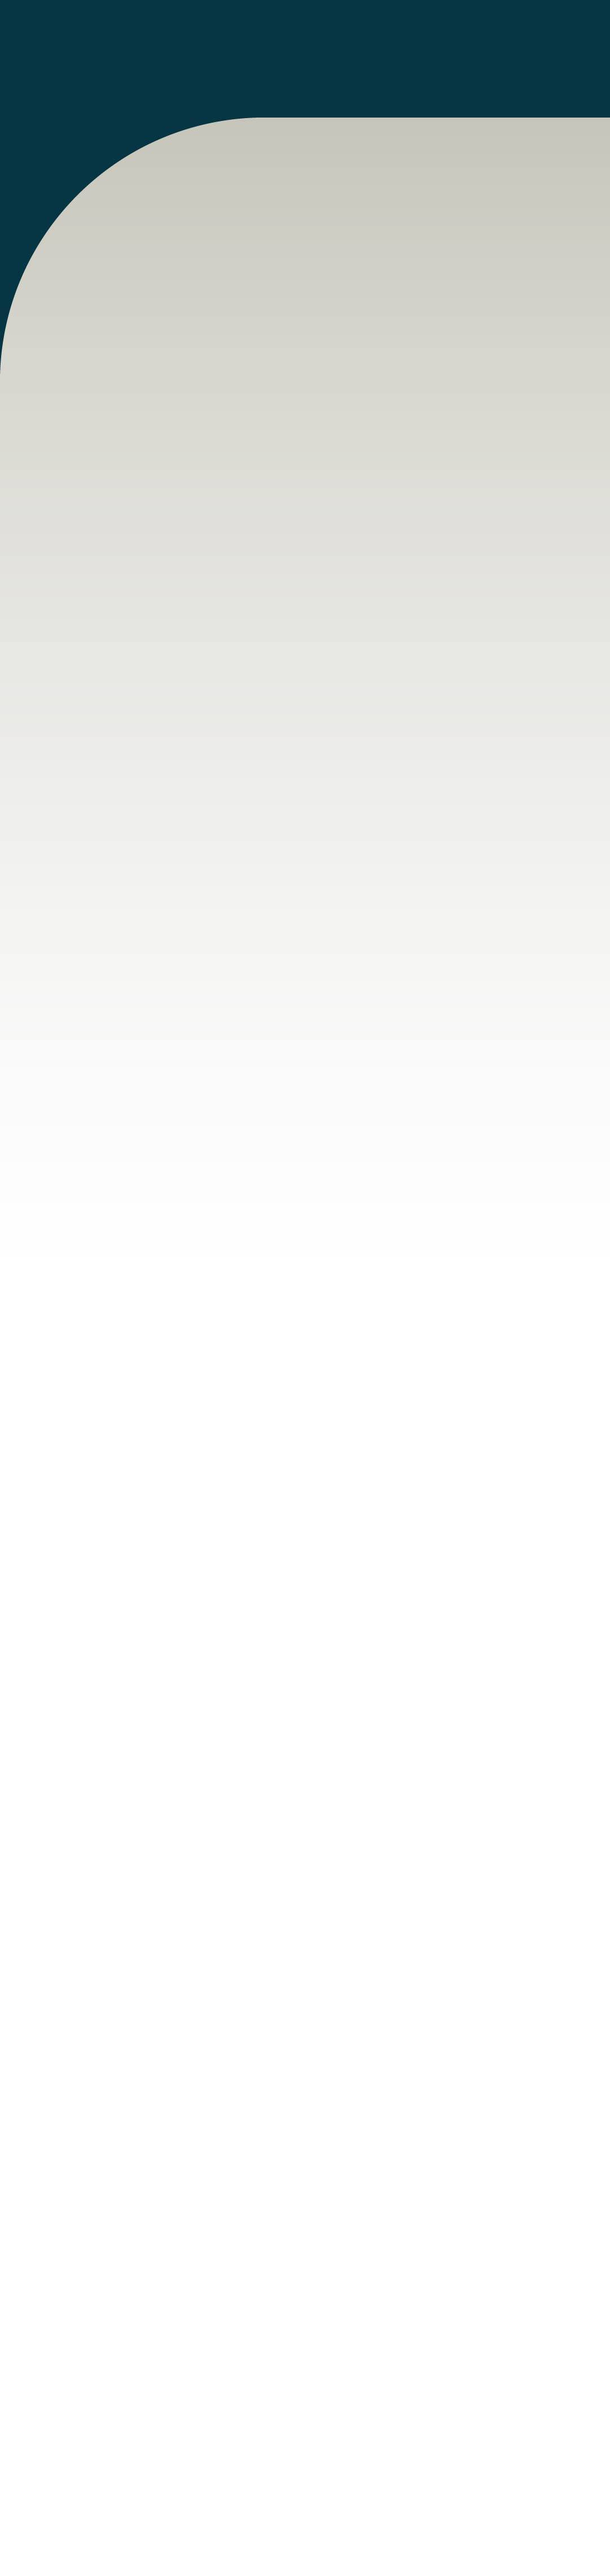
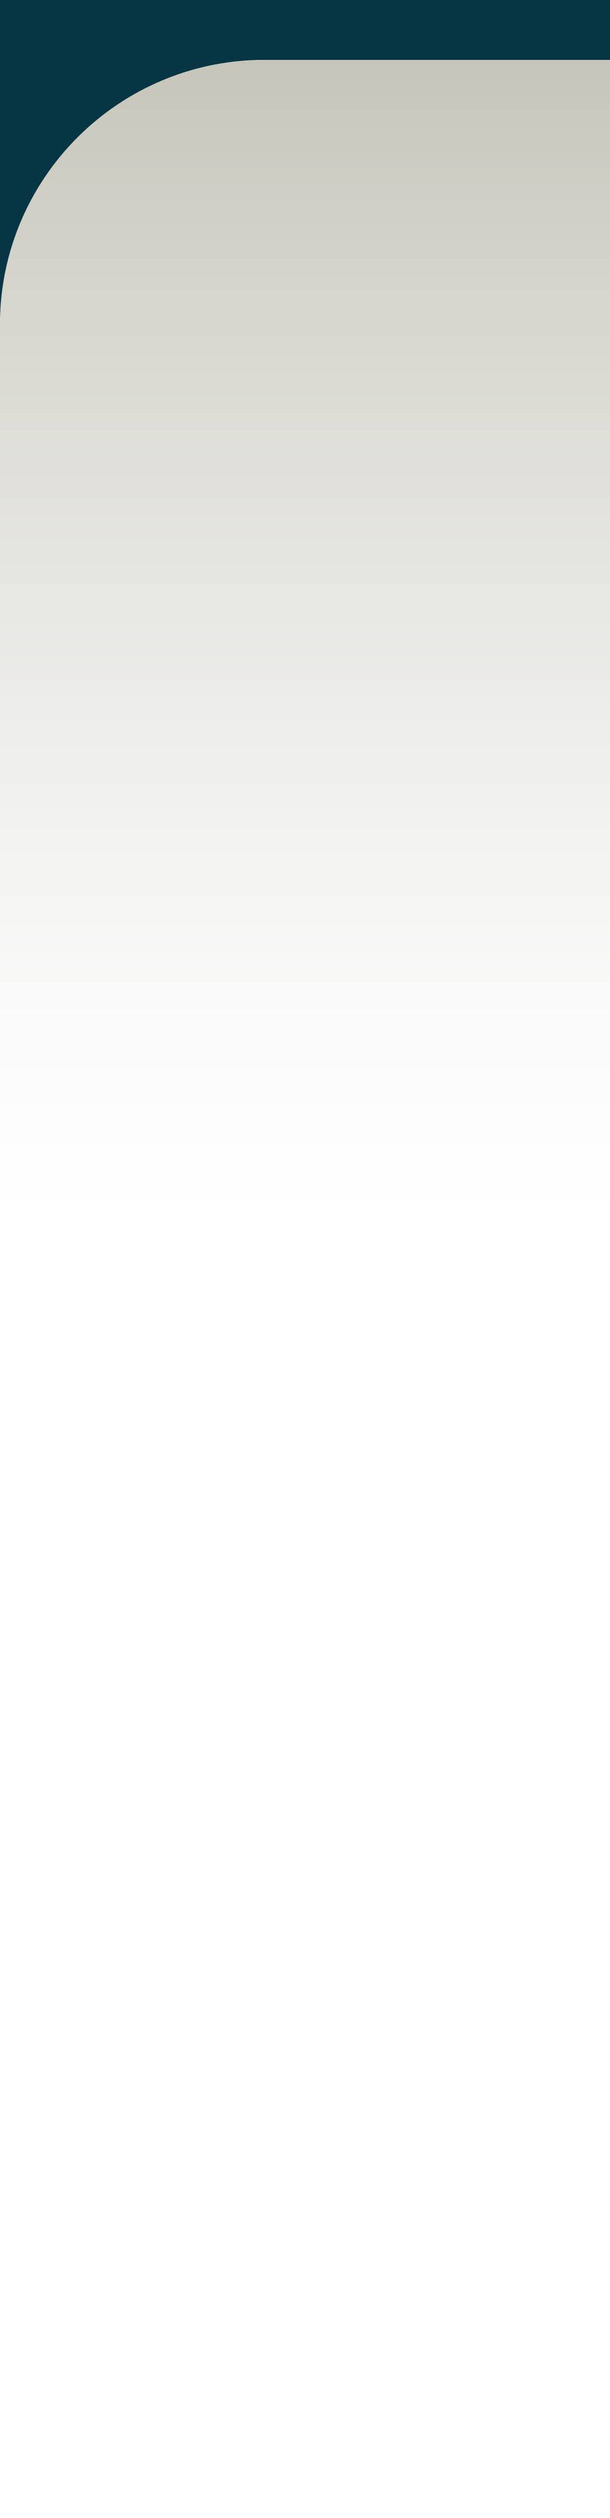
initial commit

Changed region(s): [[0.0, 0.0, 1.0, 0.156]]

diff --git a/css/style.css b/css/style.css
@@ -74,7 +74,7 @@ p, a, label{font-family: "Montserrat Regular"; font-size: 0.85rem; letter-spacin
   background-size: 100%;
   background-repeat: no-repeat;
   background-position: top;
-  padding-top: 130px;
+  padding-top: 40px;
   padding-bottom: 60px;
   border-bottom-right-radius: 24rem;
 } 
@@ -155,6 +155,7 @@ input.form-control, select, textarea, option{
   position: absolute;
   bottom: -120px;
   right: -110px;
+  z-index: 2;
 }
 .contact-form .ornament-top{
   position: absolute;
@@ -163,7 +164,7 @@ input.form-control, select, textarea, option{
 }
 .contact-form .ornament-bottom{
   position: absolute;
-  left: 0;
+  left: -510px;
   bottom: 50px;
 }
 .move-left, .move-right, .move-top{
@@ -208,7 +209,7 @@ input[type=text], textarea, select, option{
   h6{font-size: 0.7rem;}
   .about-section{
     background-image: url(../images/background-about-section-03-mobile-04.jpg);
-    padding-top: 430px;
+    padding-top: 0;
   }
   .thumbnail-images{
     background-image: url(../images/bg-mid-home-06-mobile-04-05.jpg);
